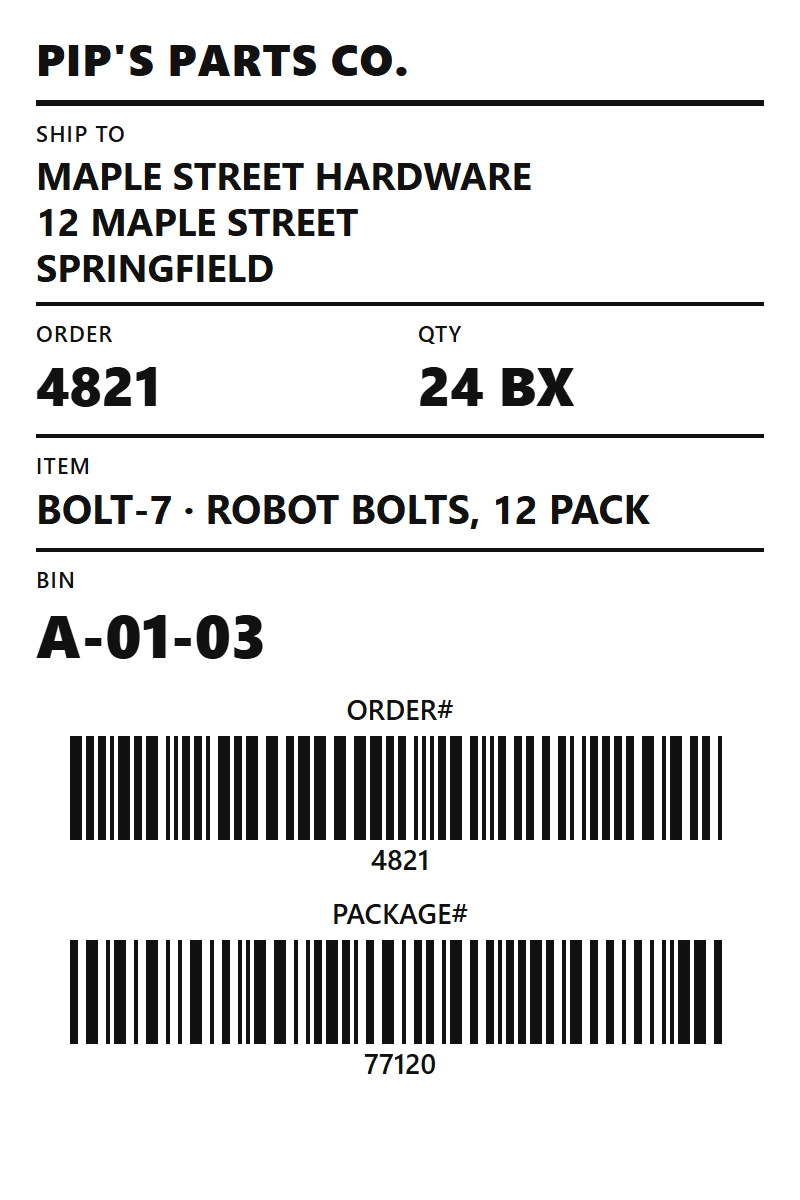
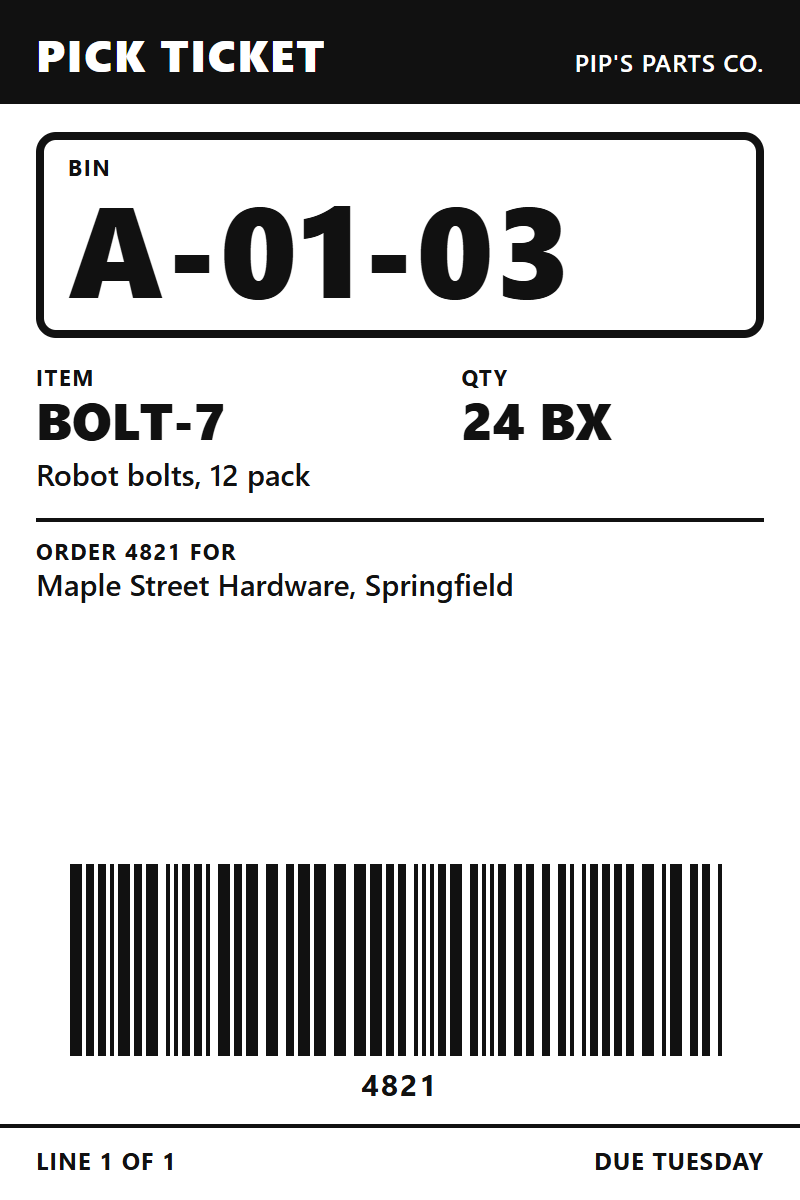
Made-up label and bin data in place of work-derived ones
- examples/clapper-intro: the 4 x 6 label is a generic pick ticket now (a big bin box, item and
  quantity, one order barcode). The old layout followed a real work label's. The captures that
  show it are made again, the bin highlight and the scan's aim follow the new layout, and the
  scanner app says "the order barcode"
- examples/3d-props: the old bin labels read OLD-A1-01 and OLD-A1-02
- README, lib/voice.js: a neutral code as the example of `say`

Changed region(s): [[0.0, 0.0, 1.0, 0.555], [0.0, 0.5858, 1.0, 0.9867]]

diff --git a/examples/clapper-intro/label/index.html b/examples/clapper-intro/label/index.html
@@ -3,35 +3,41 @@
 <head>
 <meta charset="utf-8">
 <title>Label</title>
-<!-- A made-up 4 x 6 shipping label for the intro, captured to a picture (capture/label.js) that the 3D
+<!-- A made-up 4 x 6 pick ticket for the intro, captured to a picture (capture/label.js) that the 3D
      label printer prints. Its bars are decorative: made up from the text, nothing scans for real. -->
 <style>
   html, body { margin: 0; width: 400px; height: 600px; background: #fff; color: #111; font-family: "Segoe UI", system-ui, sans-serif; }
-  .l { padding: 14px 18px; box-sizing: border-box; height: 600px; display: flex; flex-direction: column; }
-  .co { font-weight: 800; font-size: 22px; letter-spacing: .5px; border-bottom: 3px solid #111; padding-bottom: 6px; }
-  small { display: block; font-size: 11px; font-weight: 600; letter-spacing: .6px; margin-top: 6px; }
-  .to { font-size: 19px; font-weight: 700; line-height: 1.2; margin-top: 2px; }
-  .row { display: flex; gap: 18px; border-top: 2px solid #111; margin-top: 7px; padding-top: 0; }
-  .row div { flex: 1; }
-  .big { font-size: 27px; font-weight: 800; }
-  .bin { font-size: 30px; font-weight: 800; }
-  .bars { margin-top: 8px; text-align: center; font-size: 14px; font-weight: 600; }
-  svg { display: block; margin: 4px auto 0; }
+  .l { height: 600px; box-sizing: border-box; display: flex; flex-direction: column; }
+  .head { background: #111; color: #fff; display: flex; justify-content: space-between; align-items: baseline; padding: 12px 18px 10px; }
+  .head b { font-size: 22px; font-weight: 800; letter-spacing: 1px; }
+  .head span { font-size: 12px; font-weight: 600; letter-spacing: .5px; }
+  .body { padding: 14px 18px 0; display: flex; flex-direction: column; gap: 12px; flex: 1; }
+  small { display: block; font-size: 11px; font-weight: 700; letter-spacing: .8px; }
+  .bin { border: 4px solid #111; border-radius: 10px; padding: 6px 12px 10px; }
+  .bin div { font-size: 64px; font-weight: 800; line-height: 1; letter-spacing: 1px; }
+  .bin span { display: inline-block; }
+  .grid { display: grid; grid-template-columns: 1.3fr 1fr; gap: 16px; }
+  .v { font-size: 26px; font-weight: 800; line-height: 1.1; }
+  .item { font-size: 15px; font-weight: 600; margin-top: 2px; }
+  .for { font-size: 15px; font-weight: 600; line-height: 1.3; border-top: 2px solid #111; padding-top: 8px; }
+  .bars { text-align: center; font-size: 15px; font-weight: 700; letter-spacing: 1px; margin-top: auto; padding-bottom: 10px; }
+  .foot { border-top: 2px solid #111; display: flex; justify-content: space-between; font-size: 12px; font-weight: 700; letter-spacing: .5px; padding: 8px 18px 12px; }
+  svg { display: block; margin: 0 auto 4px; }
 </style>
 </head>
 <body>
 <div class="l">
-  <div class="co">PIP'S PARTS CO.</div>
-  <small>SHIP TO</small>
-  <div class="to">MAPLE STREET HARDWARE<br>12 MAPLE STREET<br>SPRINGFIELD</div>
-  <div class="row">
-    <div><small>ORDER</small><div class="big">4821</div></div>
-    <div><small>QTY</small><div class="big">24 BX</div></div>
+  <div class="head"><b>PICK TICKET</b><span>PIP'S PARTS CO.</span></div>
+  <div class="body">
+    <div class="bin"><small>BIN</small><div><span id="bin">A-01-03</span></div></div>
+    <div class="grid">
+      <div><small>ITEM</small><div class="v">BOLT-7</div><div class="item">Robot bolts, 12 pack</div></div>
+      <div><small>QTY</small><div class="v">24 BX</div></div>
+    </div>
+    <div class="for"><small>ORDER 4821 FOR</small>Maple Street Hardware, Springfield</div>
+    <div class="bars" id="order"></div>
   </div>
-  <div class="row"><div><small>ITEM</small><div style="font-size:20px;font-weight:700">BOLT-7 · ROBOT BOLTS, 12 PACK</div></div></div>
-  <div class="row"><div><small>BIN</small><div class="bin" id="bin">A-01-03</div></div></div>
-  <div class="bars" id="order"></div>
-  <div class="bars" id="pkg"></div>
+  <div class="foot"><span>LINE 1 OF 1</span><span>DUE TUESDAY</span></div>
 </div>
 <script>
   // made-up bars from the text: they look like a barcode but encode nothing
@@ -42,8 +48,7 @@
     for (let i = 0; x < 330; i++) { const w = 2 + Math.floor(r(i) * 3) * 2, g = 2 + Math.floor(r(i + 99) * 2) * 2; out += `<rect x="${x}" width="${w}" height="${h}"/>`; x += w + g; }
     return `<svg width="330" height="${h}"><g fill="#111">${out}</g></svg>`;
   };
-  document.getElementById('order').innerHTML = `ORDER# ${bars('ORDER 4821', 52)}4821`;
-  document.getElementById('pkg').innerHTML = `PACKAGE# ${bars('PKG 77120', 52)}77120`;
+  document.getElementById('order').innerHTML = `${bars('ORDER 4821', 96)}4821`;
 </script>
 </body>
 </html>

diff --git a/examples/clapper-intro/webapp/index.html b/examples/clapper-intro/webapp/index.html
@@ -125,7 +125,7 @@
         <tbody><tr><td>1</td><td class="num">BOLT-7</td><td>Robot bolts, 12 pack</td><td>A-01-03</td><td class="qty">24 BX</td></tr></tbody>
       </table>
       <div class="print">
-        <figure class="preview"><img src="../capture/label/00-label.png" alt=""><figcaption>Shipping label · 4 × 6 in</figcaption></figure>
+        <figure class="preview"><img src="../capture/label/00-label.png" alt=""><figcaption>Pick ticket · 4 × 6 in</figcaption></figure>
         <div class="controls">
           <div class="field"><small>Printer</small><div class="select">
             <svg width="20" height="20" viewBox="0 0 24 24" fill="none" stroke="#1D2733" stroke-width="1.8" stroke-linejoin="round"><path d="M6 9V3h12v6"/><rect x="3" y="9" width="18" height="8" rx="2"/><path d="M7 14h10v7H7z"/></svg>

diff --git a/examples/3d-props/scenes/index.js b/examples/3d-props/scenes/index.js
@@ -30,8 +30,8 @@ export function setup(stage) {
   }
   // labels on the level-1 beams: two old, one already covered by its new label
   const put = (lab, b, dx) => { lab.group.position.copy(rack.slot(b, 0, dx)); rack.group.add(lab.group); };
-  put(label3d({ title: 'A1-01', value: '41100188', old: true }), 0, -110);
-  put(label3d({ title: 'A1-02', value: '41100226', old: true }), 0, 110);
+  put(label3d({ title: 'A1-01', value: 'OLD-A1-01', old: true }), 0, -110);
+  put(label3d({ title: 'A1-02', value: 'OLD-A1-02', old: true }), 0, 110);
   put(label3d({ title: 'A1-03', value: 'NEWA103' }), 1, -110);
   held = label3d({ title: 'A1-01', value: 'NEWA101' }); L.scene.add(held.group);
   pip = pip3d(L, { vest: true });

diff --git a/examples/clapper-intro/scanapp/index.html b/examples/clapper-intro/scanapp/index.html
@@ -58,7 +58,7 @@
     '</g><rect x="0" y="16" width="60" height="1.6" fill="#E53935"/></svg>';
   function render() {
     const m = $('main');
-    if (view === 'home') { bar('Pick', 'Scan to start'); m.innerHTML = `<div class="home">${BARCODE}<b>Scan an order</b><span>The ORDER# barcode on the label</span></div>`; }
+    if (view === 'home') { bar('Pick', 'Scan to start'); m.innerHTML = `<div class="home">${BARCODE}<b>Scan an order</b><span>The order barcode on the label</span></div>`; }
     else if (view === 'list') {
       bar(`Order ${P.order}`, '1 pick', true);
       m.innerHTML = `<div class="sub">MAPLE STREET HARDWARE · due Tuesday</div>

diff --git a/lib/voice.js b/lib/voice.js
@@ -7,8 +7,8 @@ import { decode, SR, writeWav, ffmpeg } from './ffmpeg.js';
 import { writeJSON } from './project.js';
 
 const lines = script => script.scenes.flatMap(s => s.lines);
-// What ElevenLabs is asked to say. A line may give `say` for the words as spoken ("M M S zero zero
-// one") when they differ from `text`, which is what the captions show ("MMS001").
+// What ElevenLabs is asked to say. A line may give `say` for the words as spoken ("B X four
+// two seven") when they differ from `text`, which is what the captions show ("BX-427").
 const spokenText = line => line.say ?? line.text;
 
 function pickVoice(script, name) {

diff --git a/examples/clapper-intro/scenes/tour3d.js b/examples/clapper-intro/scenes/tour3d.js
@@ -16,7 +16,7 @@ import { TILLY_SCALE, world } from './world3d.js';
 const V = (x = 0, y = 0, z = 0) => new THREE.Vector3(x, y, z);
 const S = PL.PIP_SCALE;
 const TAP = { tapPick: [0.5, 0.288], tapDone: [0.5, 0.923] };      // where the taps land on the screen (from the capture)
-const BARS = { order: [0.5, 0.656], package: [0.5, 0.827] };       // the label's two barcodes, on its picture
+const BARS = { order: [0.5, 0.8] };                                 // the label's barcode, on its picture
 const BIN = 'A-01-03';
 let L, W, pip, scanner, label, cap, screenTex, AT;
 

diff --git a/examples/clapper-intro/scenes/index.js b/examples/clapper-intro/scenes/index.js
@@ -182,7 +182,7 @@ function labelInsert(ctx, t) {
   ctx.drawImage(IMG.label, x, y, w, h);
   const s = w / 800;                                       // the bin, A-01-03, on the 800 x 1200 label
   ctx.globalCompositeOperation = 'multiply';
-  marker(ctx, x + 28 * s, y + 604 * s, 256 * s, 66 * s, E.out(inv(c.binLit - 0.4, c.binLit + 0.2, t)));
+  marker(ctx, x + 60 * s, y + 190 * s, 522 * s, 118 * s, E.out(inv(c.binLit - 0.4, c.binLit + 0.2, t)));
   ctx.restore();
 }
 // The scanner's screen, large, beside the action, with the taps on it.

diff --git a/examples/clapper-intro/capture/label.js b/examples/clapper-intro/capture/label.js
@@ -1,4 +1,4 @@
-// The shipping label (label/), as a picture for the 3D printer to print.
+// The pick ticket (label/), as a picture for the 3D printer to print.
 //   clap capture capture/label.js
 export const url = 'label/index.html';
 export const viewport = { width: 400, height: 600 };

diff --git a/README.md b/README.md
@@ -11,7 +11,7 @@ number of Chrome processes at once.
 ## What it does
 
 - **Voice:** ElevenLabs narration with word timings, cached by request so re-runs cost nothing.
-  `say` lets a line be spoken differently from how it is captioned ("M M S zero zero one" / "MMS001").
+  `say` lets a line be spoken differently from how it is captioned ("B X four two seven" / "BX-427").
   `--draft` estimates the timings from the text instead, to lay a video out before paying for it.
 - **Timeline:** `timeline.js` places the lines and names moments ("cues") on their words.
 - **Sound:** the narration, sound effects placed at cues, and a music bed that ducks under the voice,
